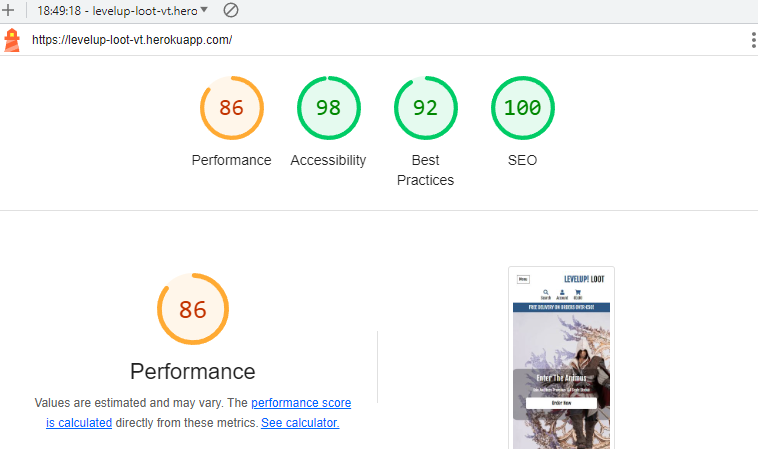
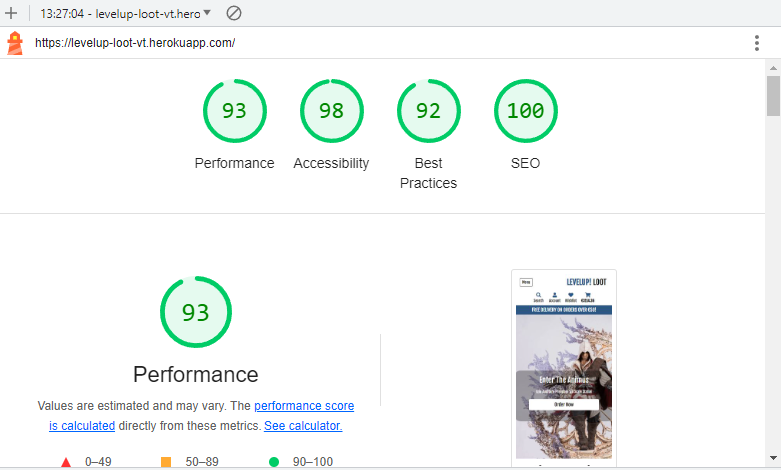
docs: Update lighthouse testing section

diff --git a/README.md b/README.md
@@ -808,22 +808,25 @@ The robots.txt file was created using this guide [https://www.conductor.com/acad
 <br>
 
 ### Lighthouse Testing
+#### Desktop
 ![Lighthouse Metrics](documentation/images/lighthouse-desktop.png)
-  - Testing on desktop originally gave a low Accesibility score with an 87. The reason for this was because the contrast on the blue colour I had originally chosen did not have a suffiecient contrast ratio.
-  - By using the linked colour contrast checker in Lighthouse, I was able to see I neeeded to change this blue to a darker colour.
-  - I then checked the rest of the colours on the page - specifically the Categories section and realised I needed to change the contrast on these too. My fix for that was to add a drop shadow on the text.
-  - After these fixes, my metrics were as shown in the top image. 99 Performance, 98 Accessibility, 92 Best Practices, 100 SEO.
+- Testing on desktop initially resulted in a low Accessibility score of 87. This was due to the insufficient contrast ratio of the blue color I had originally chosen.
+- To address this issue, I used a color contrast checker in Lighthouse and discovered that I needed to change the blue color to a darker shade.
+- I also checked the colors used in the Categories section and realized that I needed to improve the contrast there as well. To resolve this, I added a drop shadow effect to the text.
+- After implementing these fixes, the updated metrics showed significant improvements: 99 Performance, 98 Accessibility, 92 Best Practices, and 100 SEO.
 
 - ![Lighthouse Metrics](documentation/images/lighthouse-desktop-accessibility.png)
 - ![Lighthouse Metrics](documentation/images/lighthouse-contrast.png)
 
 <br>
 
- - On mobile, the performace is 86. This was originally lower because of a cumulative layout shift of 0.219. Recommendations for this were to add width and height to images and change the images to .webp format.
- - To change images from .jpg to .webp I used the website [WEBP Converter](https://cloudconvert.com/webp-converter).
- - I also changed the background image on the Hero section of the index page to a smaller version to try and help with the CLS.
- - The main issues with this low rating is because Lighthouse recommends to use HTTP2, which I am unable to change because the website is hosted on Heroku.
- - There is also an issue with "Reduced unused JavaScript" which then lists Stripe, AWS, Mailchimp and jQuery. These are all included in the base template, so unless I split them out to use only with each app they're associated with (and this would be massively time consuming for me to figure out), I have decided to leave it as is and include screenshots.
+#### Mobile
+
+- On mobile, the performance score is 93. Initially, it was lower due to a cumulative layout shift (CLS) of 0.219. To address this, recommendations were provided to add width and height attributes to images and convert the images from .jpg to .webp format.
+- To convert the images from .jpg to .webp, I used the [WEBP Converter](https://cloudconvert.com/webp-converter) website.
+- Additionally, I changed the background image on the Hero section of the index page to a smaller version in order to mitigate the CLS issue.
+- The main challenges with achieving a higher rating are related to Lighthouse's recommendation to use HTTP2, which is not within my control as the website is hosted on Heroku.
+- There is also an issue related to "Reduced unused JavaScript," which specifically mentions Stripe, AWS, Mailchimp, and jQuery. Since these libraries are included in the base template and separating them would require significant time and effort, I have chosen to leave them as they are and provide screenshots as evidence.
 
 ![Lighthouse Metrics](documentation/images/lighthouse-mobile.png)
 ![Lighthouse Metrics](documentation/images/lighthouse-mobile-perf.png)
@@ -831,7 +834,7 @@ The robots.txt file was created using this guide [https://www.conductor.com/acad
 
 | Page | Device | Category | Result |
 |------|--------|----------|--------|
-|Index | Mobile | Performance | 86% |
+|Index | Mobile | Performance | 93% |
 |||Accessibility| 98% |
 |||Best Practice | 92% |
 |||SEO | 100% |
